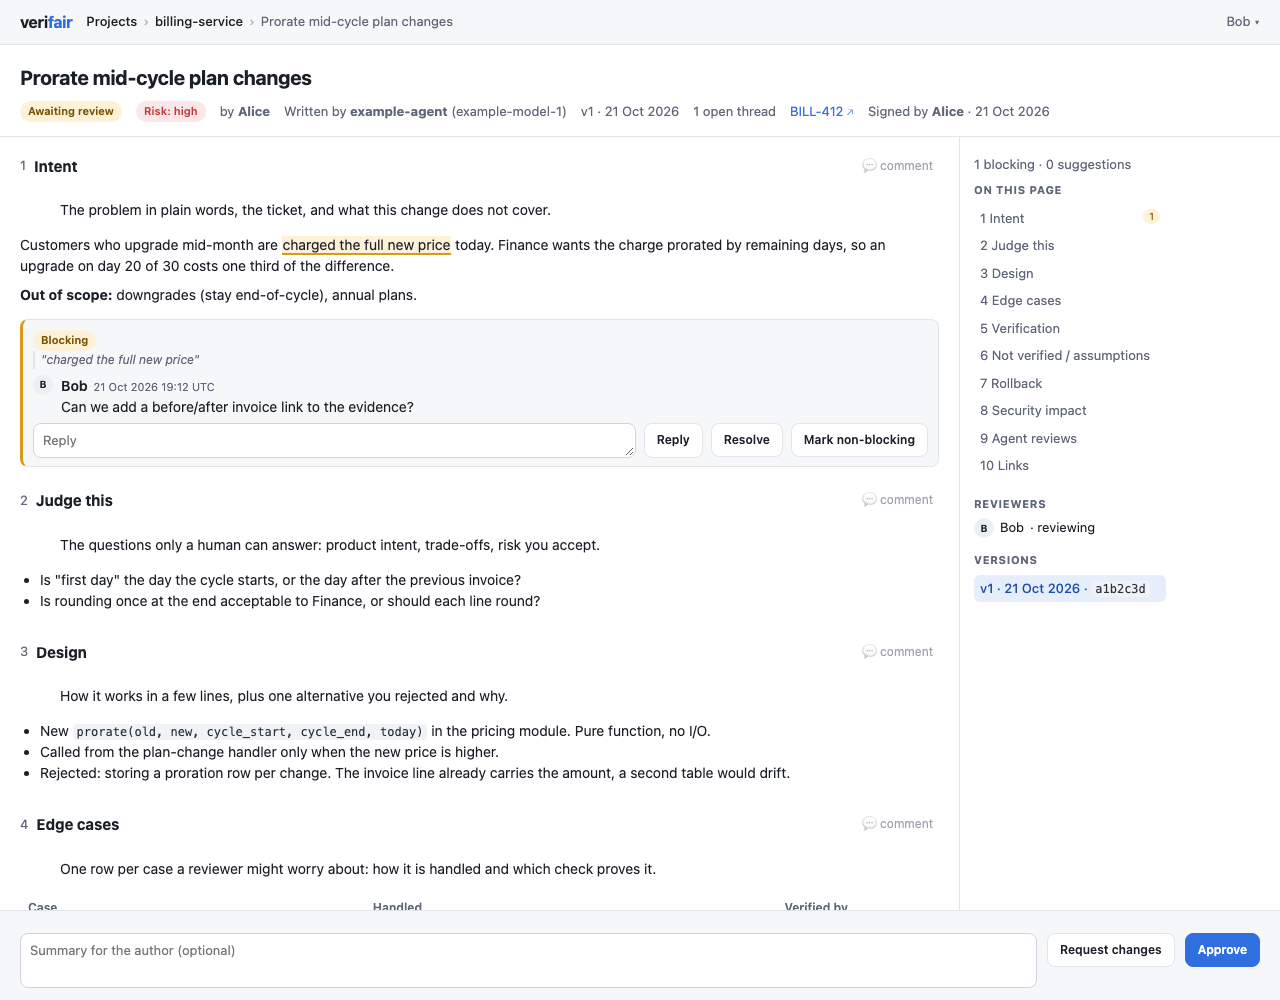
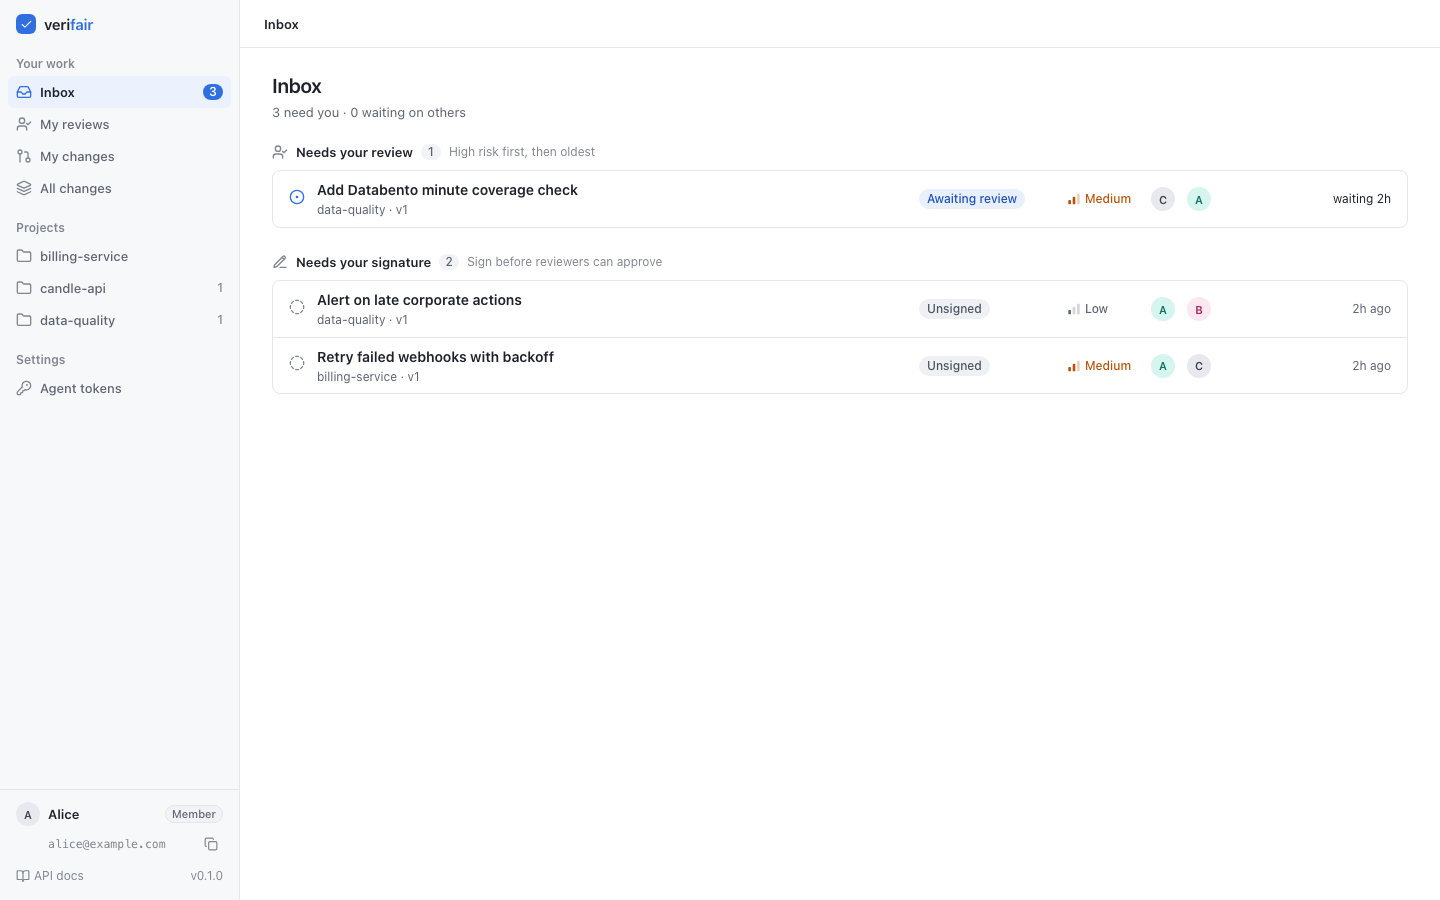
feat(ui): mobile layout, dark mode tokens and new README screenshot

diff --git a/verifair/static/app.css b/verifair/static/app.css
@@ -259,8 +259,10 @@ details.grp:not([open]) > summary {
 @keyframes spin { to { transform: rotate(360deg); } }
 @media (prefers-reduced-motion: reduce) { .step .waiting .ic { animation: none; } }
 .pre-wrap { position: relative; }
+/* The copy button sits on the wide right border, outside the scroll area, so long lines never run under it. */
 .pre {
-  margin: 0; padding: 12px 44px 12px 14px; border: 1px solid var(--border); border-radius: 8px; background: var(--code-bg);
+  margin: 0; padding: 12px 4px 12px 14px; border: 0; border-right: 40px solid var(--code-bg); border-radius: 8px;
+  outline: 1px solid var(--border); outline-offset: -1px; background: var(--code-bg);
   font: 12.5px/20px var(--font-mono); color: var(--text); overflow-x: auto; white-space: pre;
 }
 .pre-wrap .icon-btn { position: absolute; top: 8px; right: 8px; }
@@ -332,8 +334,27 @@ table.t form { margin: 0; }
 .menu[popover]:popover-open { display: flex; }
 .menu .inp { flex: 1; }
 @media (max-width: 1023px) {
-  .intro, .addform { grid-template-columns: minmax(0, 1fr); }
+  .intro { grid-template-columns: minmax(0, 1fr); }
+  .addform { grid-template-columns: minmax(0, 1fr) minmax(0, 1fr); }
   .menu[popover] { inset: 56px 16px auto auto; }
+  .chg { grid-template-columns: 16px minmax(0, 1fr) auto; align-items: start; padding: 10px 16px; }
+  .chg-t { white-space: normal; display: -webkit-box; -webkit-line-clamp: 2; -webkit-box-orient: vertical; }
+  .chg .si, .chg .when { margin-top: 2px; }
+  .chg > :is(.badge, .risk, .av, .stack, .cm) { display: none; }
+  .grp-h .hint { display: none; }
+}
+@media (max-width: 640px) {
+  .ph .meta { font-size: 12.5px; }
+  .top-act .btn { padding: 0 8px; }
+  .top-act .btn .lbl { position: absolute; width: 1px; height: 1px; overflow: hidden; clip-path: inset(50%); white-space: nowrap; }
+  table.t, table.t :is(thead, tbody, tr, td) { display: block; }
+  table.t thead { position: absolute; width: 1px; height: 1px; overflow: hidden; clip-path: inset(50%); }
+  table.t tr { padding: 12px 16px; border-top: 1px solid var(--border); }
+  table.t tbody tr:first-child { border-top: 0; }
+  table.t td { height: auto; padding: 4px 0; border: 0; }
+  table.t td:empty { display: none; }
+  table.t td[data-label]::before { content: attr(data-label); display: block; font: 500 12px/16px var(--font); color: var(--text-muted); }
+  table.t td.r { text-align: left; padding-top: 8px; }
 }
 .denied { max-width: 640px; margin: 64px auto; }
 .denied h1 { margin: 0 0 8px; font: 600 20px/28px var(--font); }
@@ -341,7 +362,7 @@ table.t form { margin: 0; }
 .denied a { color: var(--link); }
 
 
-body.has-verdict { padding-bottom: 90px; }
+body.has-verdict .app-main { padding-bottom: 90px; }
 .banner { padding: 8px 24px; background: var(--risk-medium-bg); color: var(--risk-medium); font-size: 13px; }
 .head { padding: 20px 24px 16px; border-bottom: 1px solid var(--border); }
 .head h1 { margin: 0 0 10px; font: 600 20px/28px var(--font); letter-spacing: -.01em; overflow-wrap: anywhere; }
@@ -361,13 +382,13 @@ body.has-verdict { padding-bottom: 90px; }
 .tag-blocking { background: var(--risk-medium-bg); color: var(--risk-medium); }
 .cform .nb { display: block; font-size: 12px; color: var(--text-muted); margin: 4px 0; }
 
-.body { display: grid; grid-template-columns: minmax(0, 1fr) 300px; }
-.main { padding: 8px 24px 24px; min-width: 0; }
+.body { display: grid; grid-template-columns: minmax(0, 1fr) 300px; flex: 1; }
+.main { padding: 8px 24px 24px; min-width: 0; border-right: 1px solid var(--border); }
 .side {
-  padding: 16px 20px; font-size: 13px; border-left: 1px solid var(--border); position: sticky; top: 48px;
-  align-self: start; height: calc(100vh - 48px); overflow: auto;
+  padding: 16px 20px; font-size: 13px; position: sticky; top: 48px;
+  align-self: start; max-height: calc(100vh - 48px); overflow: auto;
 }
-body.has-verdict .side { height: calc(100vh - 48px - 65px); }
+body.has-verdict .side { padding-bottom: 112px; }
 .side h4 { margin: 16px 0 6px; font: 600 12px/16px var(--font); color: var(--text-subtle); }
 .side ul { list-style: none; padding: 0; margin: 0; }
 .side li { display: flex; align-items: center; gap: 6px; min-height: 28px; padding: 0 8px; margin: 0 -8px; border-radius: 6px; }
@@ -452,15 +473,15 @@ body.has-verdict .side { height: calc(100vh - 48px - 65px); }
 .app-main > .name-prompt { position: fixed; left: 0; right: 0; bottom: 0; z-index: 5; margin: 0; border-radius: 0; }
 
 @media (max-width: 720px) {
-  body.has-verdict { padding-bottom: 170px; }
+  body.has-verdict .app-main { padding-bottom: 170px; }
   .head, .main { padding-left: 16px; padding-right: 16px; }
   .verdict { padding: 12px 16px; }
   .body { display: flex; flex-direction: column; }
-  .main { order: 1; }
+  .main { order: 1; border-right: 0; }
   .side {
-    order: 2; position: static; align-self: stretch; height: auto; max-height: none;
-    border-left: 0; border-top: 1px solid var(--border); padding: 16px;
+    order: 2; position: static; align-self: stretch; max-height: none;
+    border-top: 1px solid var(--border); padding: 16px;
   }
-  body.has-verdict .side { height: auto; }
+  body.has-verdict .side { padding-bottom: 16px; }
   .verdict textarea { flex-basis: 100%; }
 }

diff --git a/verifair/templates/_sidebar.html b/verifair/templates/_sidebar.html
@@ -13,7 +13,7 @@
   {% else %}
   <p class="dismiss">Nobody yet.</p>
   {% endfor %}
-  <h4 class="gap">Versions</h4>
+  <h4>Versions</h4>
   <ul>
     {% for v in versions %}<li{% if v.version == version %} class="on"{% endif %}><a href="{{ url }}{% if v.version != current_version %}/v/{{ v.version }}{% endif %}">v{{ v.version }} · {{ v.created_at|date }}{% if v.commit %} · <code>{{ v.commit[:7] }}</code>{% endif %}</a></li>{% endfor %}
   </ul>

diff --git a/tests/test_web.py b/tests/test_web.py
@@ -243,6 +243,41 @@ def test_css_has_no_old_alias_tokens():
     assert "body.has-verdict" in css and ".app-main > .name-prompt { position: fixed;" in css
 
 
+def _media(css, query):
+    return "\n".join(part.split("\n}")[0] for part in css.split(f"@media ({query}) {{")[1:])
+
+
+def test_css_colours_are_tokens():
+    css = (Path(web.__file__).parent / "static" / "app.css").read_text()
+    rest = re.sub(r":root\s*\{[^}]*\}", "", css)
+    assert not re.search(r"#[0-9a-fA-F]{3,8}\b", rest)
+    assert "rgb(" not in rest and "rgba(" not in rest
+
+
+def test_mobile_rules_exist():
+    css = (Path(web.__file__).parent / "static" / "app.css").read_text()
+    tablet = _media(css, "max-width: 1023px")
+    assert ".app-nav:not(:popover-open)" in tablet and ".chg" in tablet
+    assert ".grp-h .hint { display: none; }" in tablet
+    phone = _media(css, "max-width: 640px")
+    assert "content: attr(data-label)" in phone and ".top-act .btn .lbl" in phone
+    assert "@media (prefers-reduced-motion: reduce)" in css
+
+
+def test_env_block_wraps_clear_of_the_copy_button():
+    css = (Path(web.__file__).parent / "static" / "app.css").read_text()
+    pre = css.split("\n.pre {")[1].split("}")[0]
+    assert "border-right: 40px solid var(--code-bg)" in pre and "overflow-x: auto" in pre
+
+
+def test_review_rail_leaves_room_for_the_verdict_bar():
+    css = (Path(web.__file__).parent / "static" / "app.css").read_text()
+    assert "calc(100vh - 48px - 65px)" not in css
+    assert "body.has-verdict { padding-bottom" not in css
+    assert "body.has-verdict .app-main { padding-bottom: 90px; }" in css
+    assert "body.has-verdict .side { padding-bottom: 112px; }" in css
+
+
 def test_comment_without_name_returns_prompt_and_stores_nothing(client):
     push(client)
     r = client.post("/r/prorate/comments", data={"version": 1, "section": "Intent", "body": "Why?"})

diff --git a/tests/test_access.py b/tests/test_access.py
@@ -422,7 +422,6 @@ def test_access_table_cells_carry_their_labels(shared_client, conn):
     assert '<td data-label="Status"><span class="badge b-approved">Active</span></td>' in members
 
 
-@pytest.mark.xfail(strict=True, reason="the stacked table CSS lands in Task 7")
 def test_access_tables_stack_on_narrow_screens():
     css = (Path(web.__file__).parent / "static" / "app.css").read_text()
     mobile = css.split("@media (max-width: 640px) {")[1].split("\n}")[0]

diff --git a/README.md b/README.md
@@ -2,7 +2,9 @@
 
 verifair is a small web service where agents push markdown change-review reports and humans read them, comment by selecting text, and give a verdict. Agents already handle code review. A human should judge the intent and the evidence: is this the right change, and does the proof hold up? verifair gives them one page per change to do that.
 
-![verifair report page](docs/screenshot.png)
+![verifair Inbox](docs/screenshot.png)
+
+![verifair review page](docs/screenshot-review.png)
 
 ## How it works
 
@@ -28,18 +30,20 @@ This is local mode. For a team, use shared mode. See [Roles and access](#roles-a
 
 The sidebar has four views under **Your work**:
 
-- **Inbox** (the home page) shows what needs you, grouped by whose turn it is:
+- **Inbox** (`/`, the home page) shows what needs you, grouped by whose turn it is:
   - **Needs your review**: changes where your review was requested, the author has signed, and you have not given a verdict on this version yet. High risk comes first, then the ones waiting longest. Your own changes, and changes you signed, never show here, even if you are on their reviewer list.
   - **Needs your signature**: your unsigned changes. In local mode it also shows unsigned changes with no owner, because anyone can sign those.
   - **Returned to you**: your changes where a reviewer requested changes.
   - **Waiting on others**: your signed changes that wait for a review. This group starts closed.
 
   When a new version is pushed, the change goes back to the author to sign, and then back to the reviewers. When nothing needs you, the Inbox says so. With no projects yet, it shows how to connect your first agent.
-- **My reviews** lists every change where your review was requested, including finished reviews.
-- **My changes** lists every change you own, including unsigned drafts.
-- **All changes** lists everyone's changes. Everyone sees all projects and changes.
+- **My reviews** (`/changes?scope=reviewer`) lists every change where your review was requested, including finished reviews.
+- **My changes** (`/changes?scope=author`) lists every change you own, including unsigned drafts.
+- **All changes** (`/changes`) lists everyone's changes. Everyone sees all projects and changes.
 
-The lists and project pages have status tabs with counts.
+The lists and project pages (`/p/<project>`, under **Projects** in the sidebar) have status tabs with counts. A report is at `/r/<id>`.
+
+Below 1024px wide the sidebar becomes a menu that opens from the top bar. On the review page it is always a menu, so the report gets the full width.
 
 Your id is at the bottom of the sidebar, with a button to copy it. Give it to your agent. Set `author_id` to the owner's id and `reviewers` to the requested reviewers' ids when publishing. In shared mode the agent token sets the owner, so `author_id` can be left out. Display names do not decide ownership. Review requests help people find work. Anyone with access can still read and review a report, and the normal signing and approval rules apply.
 
